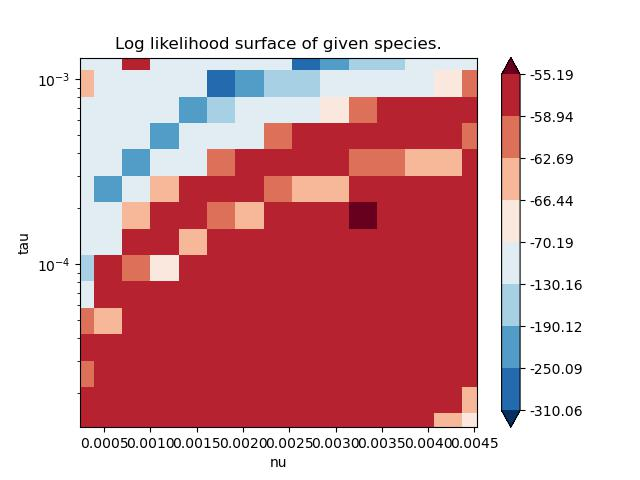
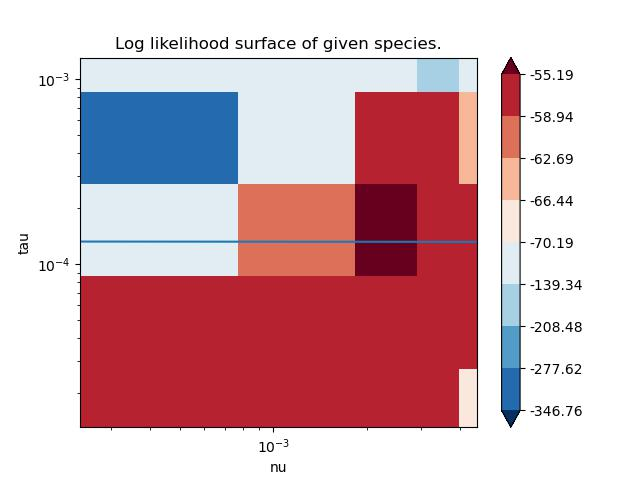
test

diff --git a/Scripts/plot_likelihood.py b/Scripts/plot_likelihood.py
@@ -445,8 +445,8 @@ class PlotLikelihood():
                 # max_nu = 1.0
                 min_tau = 0.1 * tau_prime
                 max_tau = 10 * tau_prime
-                nx = 15
-                ny = 15
+                nx = 5
+                ny = 5
                 x_space = numpy.linspace(min_nu, max_nu, nx)
                 y_space = numpy.logspace(numpy.log10(min_tau), numpy.log10(max_tau), ny, base=10)
                 x, y = numpy.meshgrid(x_space, y_space,
@@ -499,7 +499,7 @@ class PlotLikelihood():
                 # cbar=plt.colorbar(ticks=v1)              # the mystery step ???????????
                 # cbar.ax.set_yticklabels(["{:4.2f}".format(i) for i in v1]) # add the labels
                 ax.set_yscale('log')
-                # ax.set_xscale('log')
+                ax.set_xscale('log')
                 plt.plot(mle, marker = 'o', ms = 20, mec = 'c', mfc = 'c')
                 # ax.ticklabel_format(style='sci', scilimits = (0, 0), axis='both')
                 ax.set_title('Log likelihood surface of given species.')
